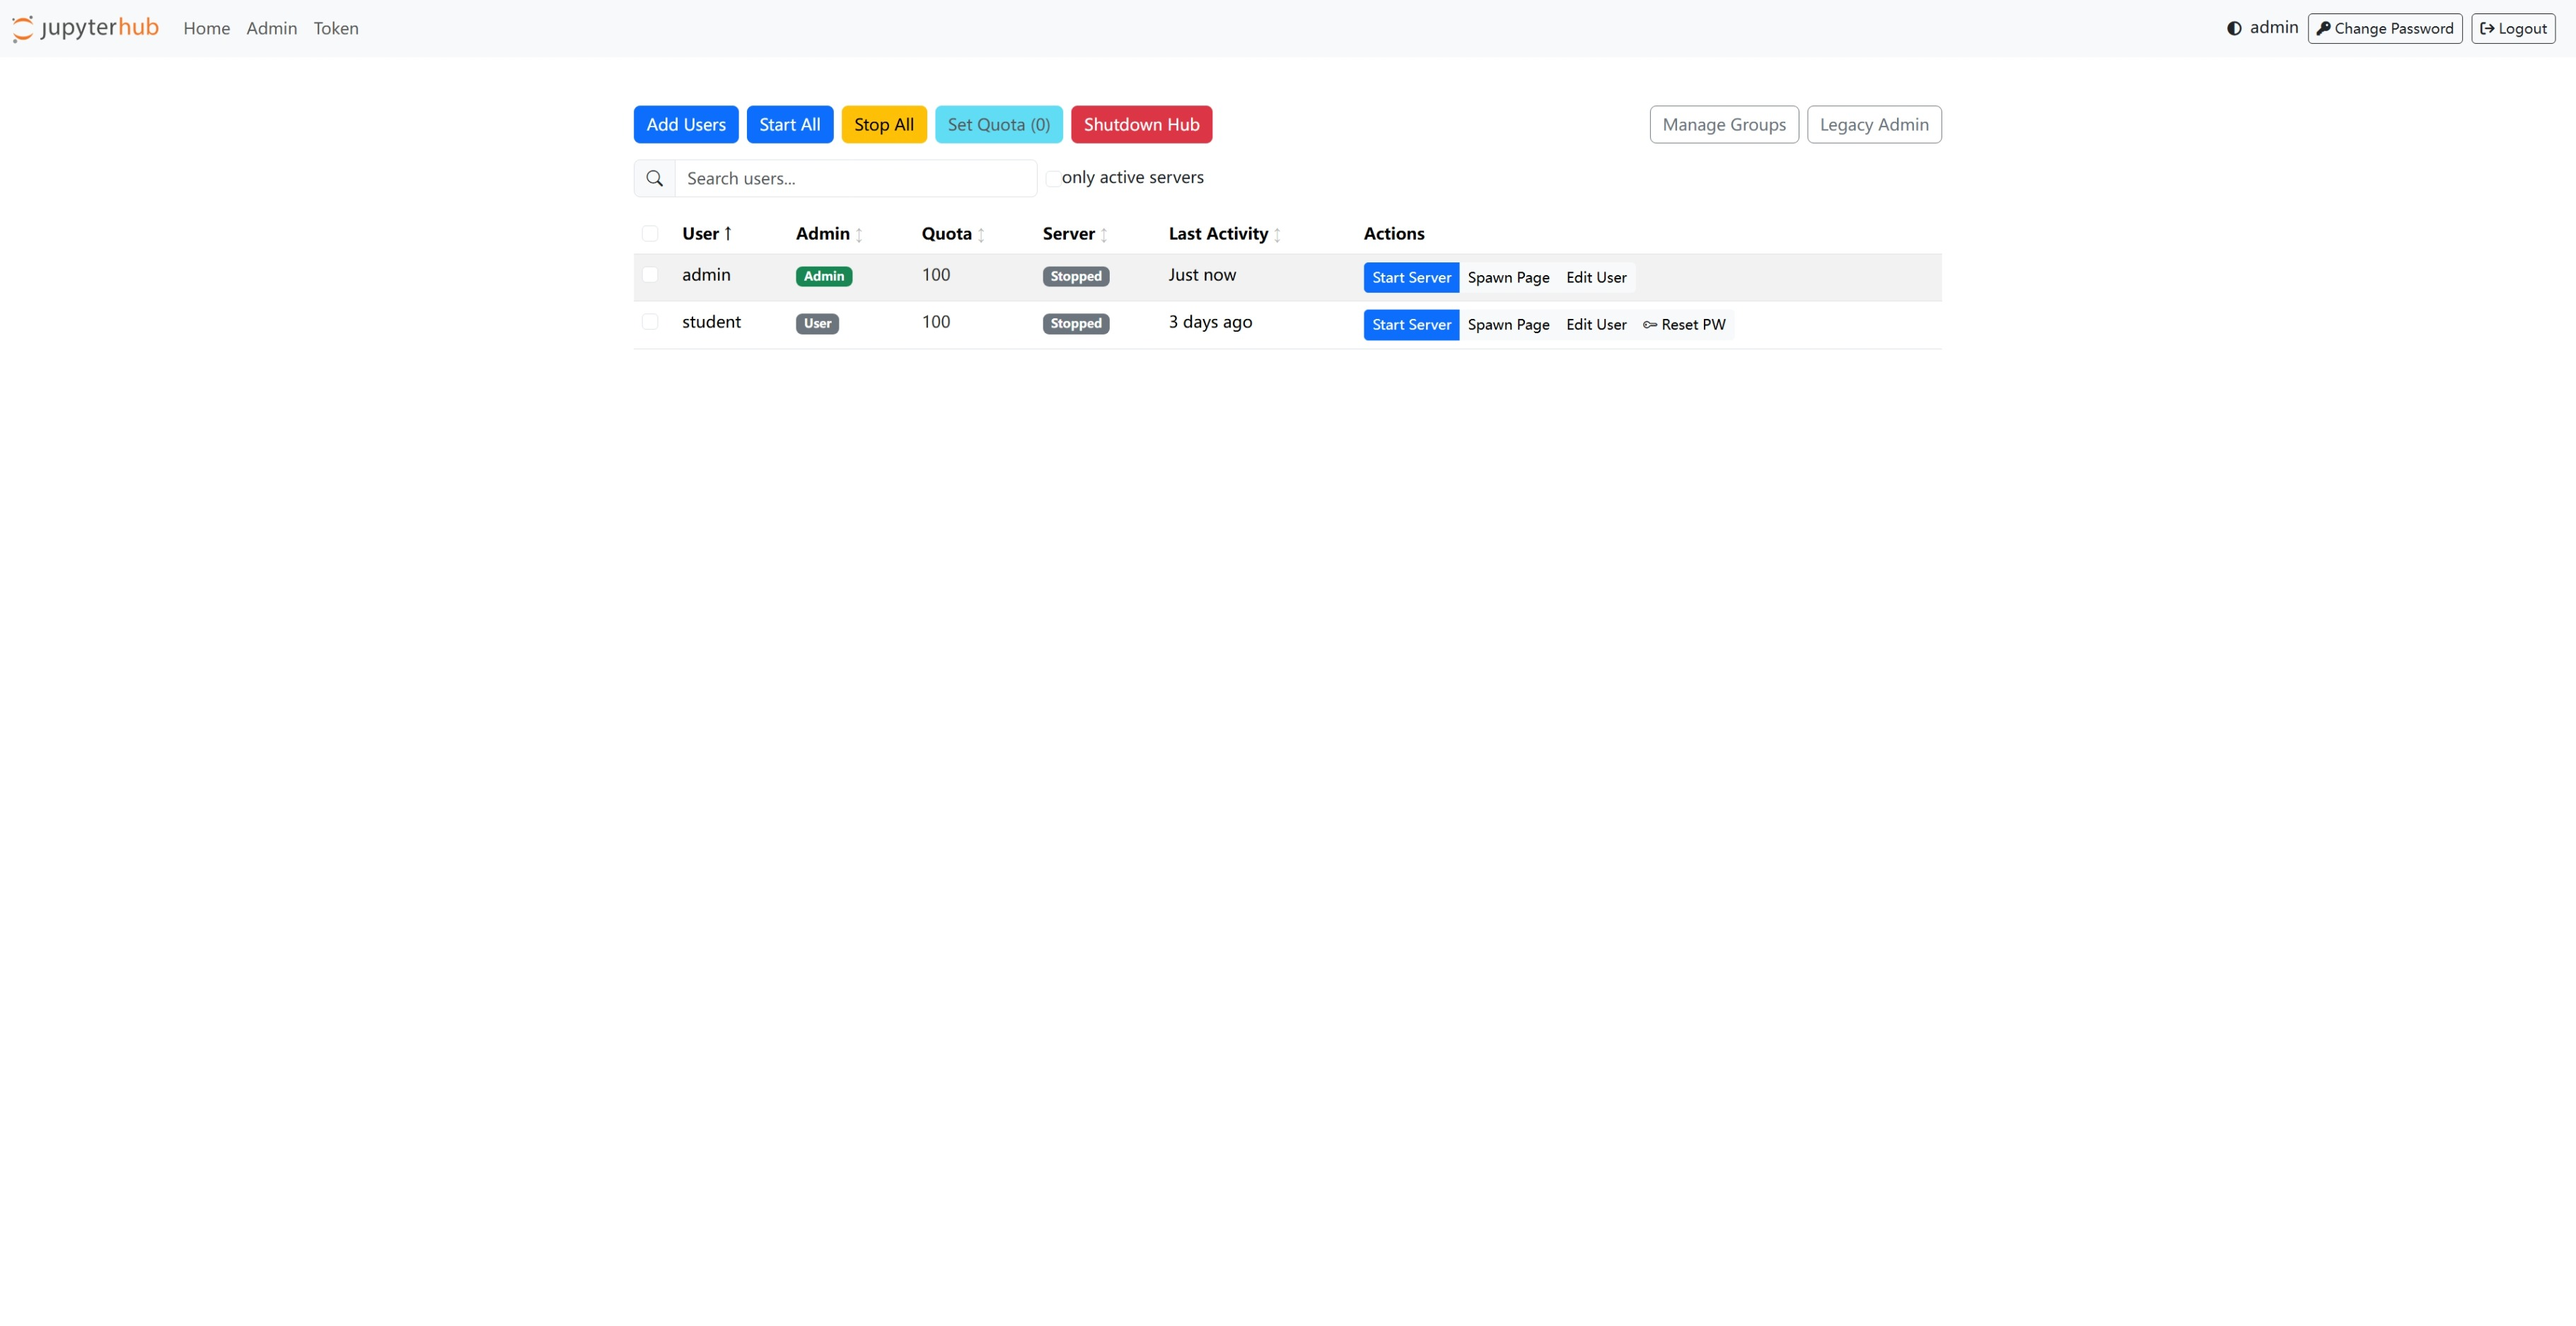
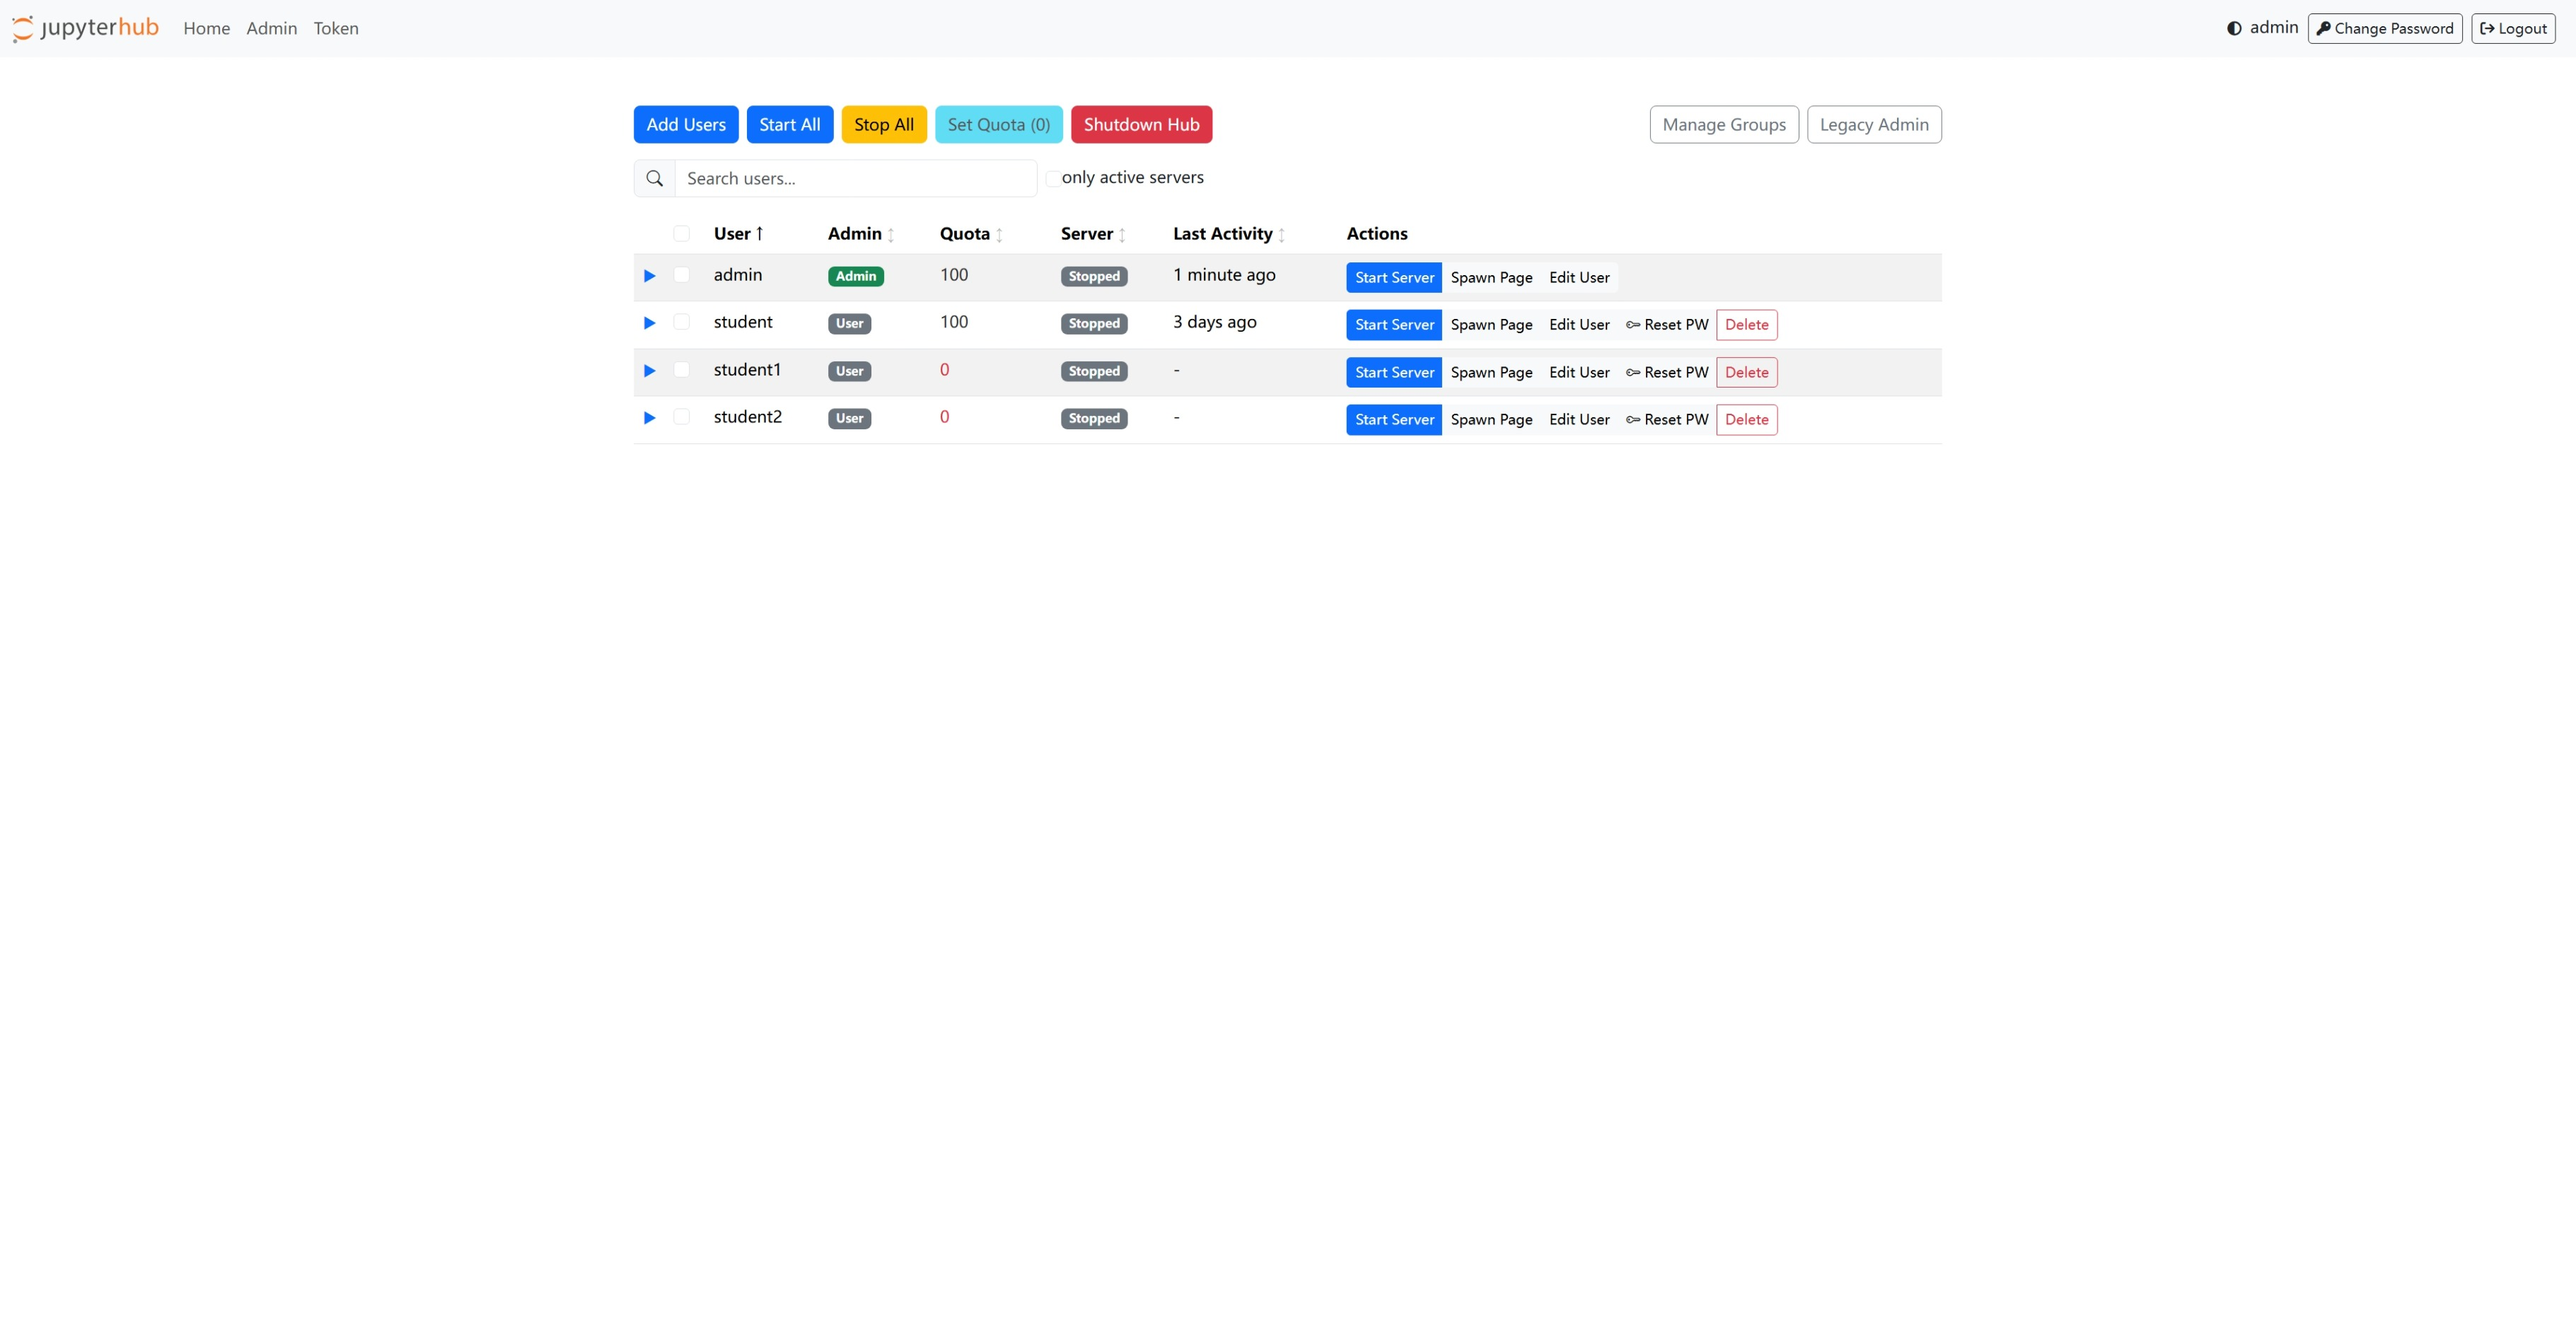
Update quota system screenshots with new UI

Changed region(s): [[0.4964, 0.1547, 0.6826, 0.3403], [0.2482, 0.1547, 0.3723, 0.3403], [0.4033, 0.1547, 0.4964, 0.3403]]

diff --git a/docs/jupyterhub/quota-system.md b/docs/jupyterhub/quota-system.md
@@ -250,12 +250,15 @@ Click directly on a user's quota value to edit:
 
 1. Select multiple users using checkboxes
 2. Click "Set Quota" button (appears when users are selected)
+
+![Batch Select Users](../imgs/jupyterhub/quota-3-batch-select.png)
+
 3. Enter the quota value:
    - A number (e.g., `500`) to set exact balance
    - `-1`, `∞`, or `unlimited` to grant unlimited status
 4. Click "Apply" to update all selected users
 
-![Batch Quota Operation](../imgs/jupyterhub/quota-3-batch-operation.png)
+![Batch Quota Modal](../imgs/jupyterhub/quota-4-batch-modal.png)
 
 ### REST API Endpoints
 
